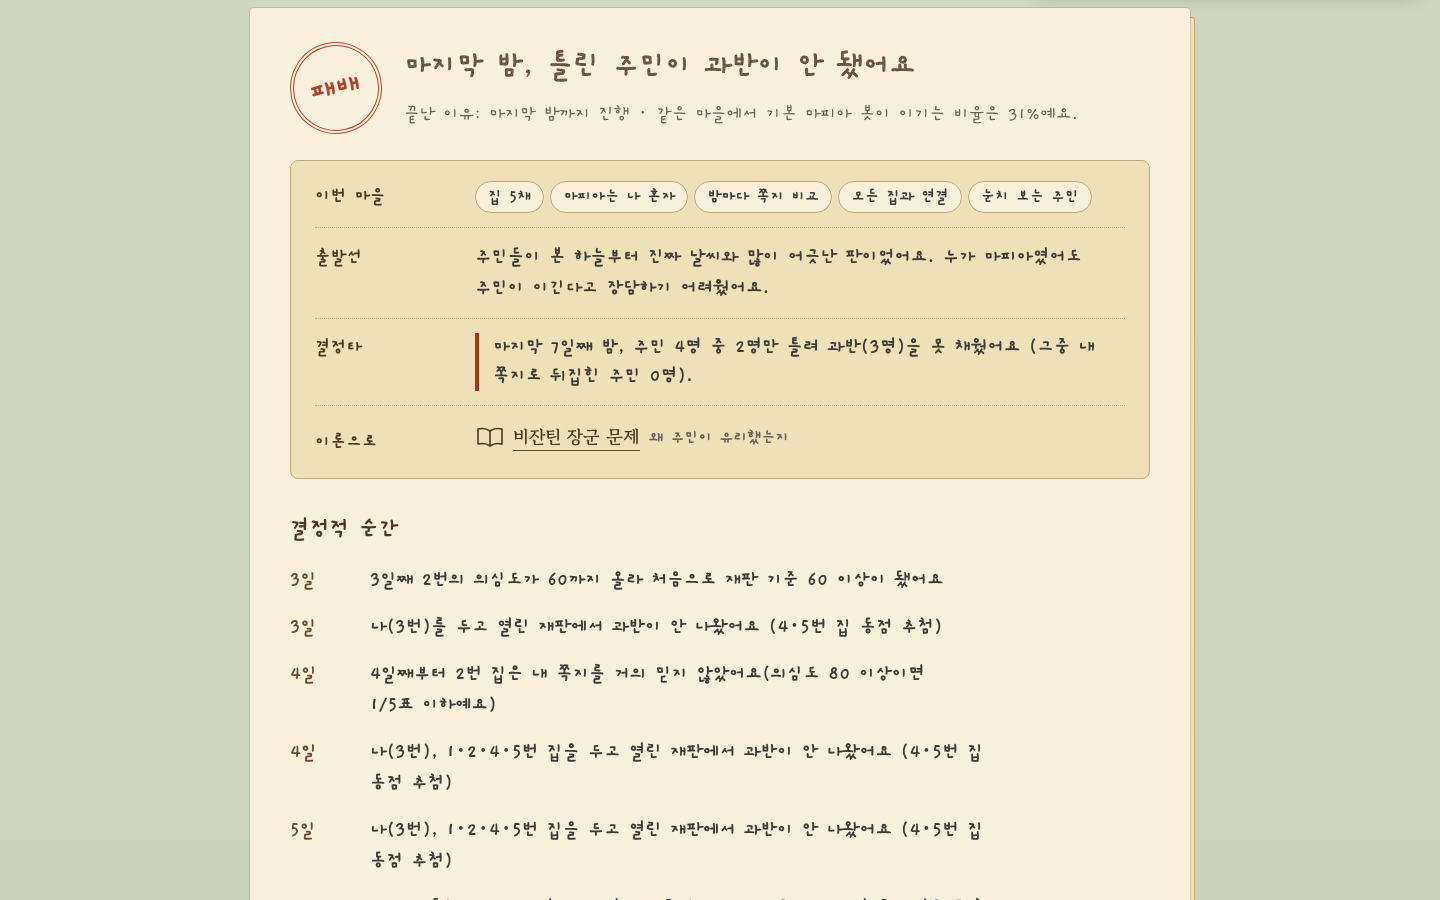
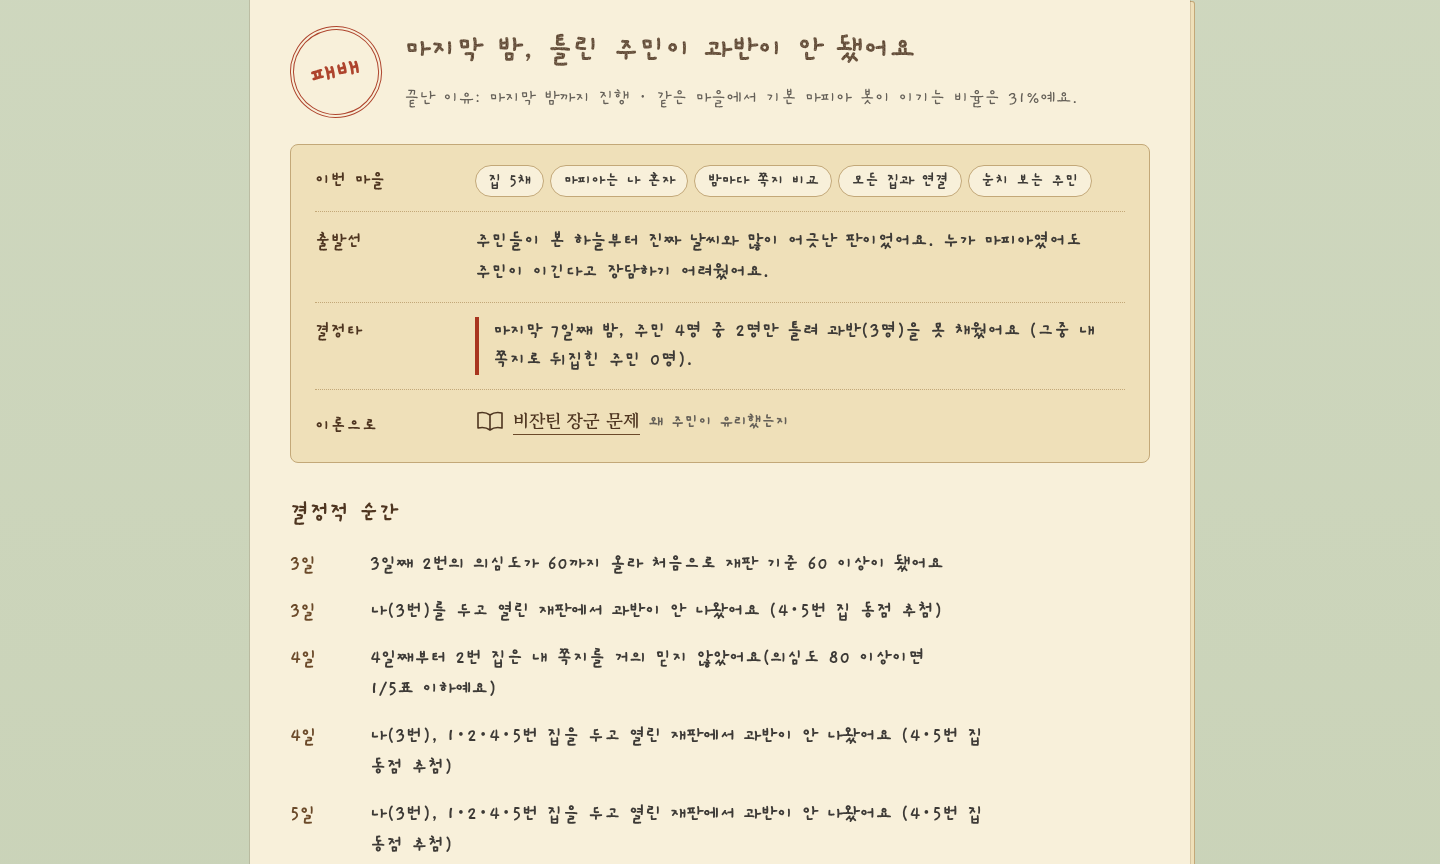
docs: 문서 리뷰 반영

diff --git a/README.md b/README.md
@@ -1,15 +1,13 @@
 # 비잔틴 도시 시뮬레이션
 
-도시 5곳(컨테이너 5개)이 각자 "대피/잔류"를 정할 때, 틀린 정보와 거짓말이 섞이면 판단이 어떻게 무너지는지 실험하는 시뮬레이터입니다.
+도시 5곳(컨테이너 5개)이 각자 "대피/잔류"를 정하고 결론을 이웃과 나눌 때, 틀린 정보와 거짓말이 섞이면 판단이 어떻게 무너지는지 실험하는 시뮬레이터입니다.
 직접 거짓말쟁이가 되어 보는 게임도 있습니다.
 
 | 할 수 있는 것 | 내용 |
 |---|---|
 | 실험 모드 | `실험 설정`에서 조건을 정해 실행하고, `결과 탐색`에서 턴별 결과를 보고, `실험 비교`에서 비교합니다 |
-| AI 주민을 속여라 | 마피아가 되어 7일 동안 쪽지를 보냅니다. 재판에서 지목되지 않고 마지막 밤에 주민 과반이 날씨와 반대로 움직이면 이깁니다. 결과 화면은 판을 이론으로 해석하고 이론 책으로 연결합니다 |
+| AI 주민을 속여라 | 주민(`다수결`·`눈치`·`AI`)을 고르고 마피아가 되어 7일 동안 쪽지를 보냅니다. 재판에서 지목되지 않고 마지막 밤에 주민 과반이 날씨와 반대로 움직이면 이깁니다. 결과 화면은 판을 이론으로 해석하고 이론 책으로 연결합니다 |
 | 이론 실험실 | 게임 시작 화면에서 들어갑니다. 시나리오 넷(감시의 눈, 고리 마을, 신뢰를 되찾는 법, 고집쟁이 동료)으로 이론을 직접 확인합니다 |
-
-게임의 주민은 `다수결`, `눈치`, `AI` 중에서 고릅니다.
 
 > 경기대학교 2026-2 오픈소스 · 5팀 (사공우혁, 장민서, 장성진, 최서연, 우재원)
 
@@ -21,7 +19,7 @@
 
 ![게임 마을 보드](docs/images/game-board.png)
 
-마을 보드에서 집마다 보낼 쪽지(대피/잔류)를 고르고, 의심도가 어떻게 바뀔지 미리 봅니다.
+마을 보드에서 집마다 보낼 쪽지(대피/잔류)를 고릅니다. 주민이 `눈치`면 의심도가 어떻게 바뀔지도 미리 봅니다.
 
 ![게임 결과 화면](docs/images/game-result.png)
 
@@ -82,7 +80,8 @@ docker compose ps    # api·mysql이 healthy인지 확인
 
 `.env` 없이도 기본값으로 실행됩니다. DB 계정, `GOD_MODE`, LLM 설정을 바꿀 때만 `.env.example`을 `.env`로 복사해 수정합니다.
 AI 주민에 실제 LLM을 쓰려면 `.env`에 `LLM_API_KEY`, `LLM_BASE_URL`, `LLM_MODEL`을 넣습니다. `LLM_API_KEY`가 비면 가짜 LLM을 씁니다.
-무료 한도 키는 팀원 테스트용이며, 키는 커밋하지 않습니다.
+`LLM_MODEL`은 꼭 지정합니다. `LLM_BASE_URL`이 비면 OpenAI 주소를 씁니다.
+팀이 쓰는 키는 무료 한도라 팀원 테스트용입니다. 키는 커밋하지 않습니다.
 폴더별 개발 실행 방법은 [frontend](frontend/README.md), [backend](backend/README.md), [engine/god](engine/god/README.md) README에 있습니다.
 
 ## 배포

diff --git a/docs/spec.md b/docs/spec.md
@@ -443,7 +443,7 @@ God이 게임 상태를 메모리에 둔다. 진행 중 게임은 한 번에 하
 | GET | `/games/stats` | 플레이 기록 집계 (아래) |
 | GET | `/games/stats.csv` | 같은 집계를 CSV 파일로 (`play_stats.csv`, UTF-8 BOM) |
 
-- 요청·응답 형식은 7.7, 7.8과 같다. 백엔드는 턴 결과를 받은 그대로 저장한다 (예: `games`, `game_turns` JSON 컬럼). 테이블은 5절에 있다.
+- 요청·응답 형식은 7.7, 7.8과 같다. 백엔드는 턴 결과를 받은 그대로 `game_turns`에 저장한다 (5절).
 - `bot_win_rate`: 같은 설정에서 `player == "bot"`의 마피아 승률 (0.0~1.0, 결과 화면 비교용). 값은 7.2 난이도 표의 측정값을 백엔드가 설정별로 들고 있다. 프리셋 밖 설정(`mafia_count` 2, 표에 없는 `sensor_error`, 기본값이 아닌 `connection`·`memory`·`share_mode`·`share_pairs`, `citizen_type` `"ai"`)이면 `null`. God은 이 필드를 모른다.
 - 새 게임을 시작하면 이전 `in_progress` 게임은 `abandoned`.
 - 플레이 기록 집계(`/games/stats`): `status == "finished"`, `player == "human"`, `citizen_type`이 `"wary"` 또는 `"majority"`(`"ai"`는 봇 승률이 없어 제외), `mafia_count` 1, `connection`·`memory`·`share_mode`·`share_pairs`가 기본값, `sensor_error`가 7.2 난이도 프리셋 값(0.48/0.4/0.3)인 판만 센다. `seed`는 따지지 않는다. 승리는 `outcome`이 `"win"` 또는 `"perfect_win"`인 판.
@@ -485,7 +485,7 @@ God이 게임 상태를 메모리에 둔다. 진행 중 게임은 한 번에 하
 ### 7.11 LLM 호출 위치와 키
 
 - **City가 호출한다.** 근거: 판단 주체가 City라는 구조를 지키고 God에는 규칙(공유·모순·투표)만 남긴다. compose는 기본 bridge 네트워크 하나만 쓰고 분리하지 않는다. 그래서 City 컨테이너가 외부 LLM 주소를 바로 호출할 수 있다.
-- God의 AI 시민 City 호출 시간 제한은 40초(City의 LLM 30초보다 길게, `god/main.py` 상수). 시민 5곳은 병렬로 부른다. 규칙 시민은 기본 1초.
+- God의 AI 시민 City 호출 시간 제한은 40초(City의 LLM 30초보다 길게, `god/main.py` 상수). 시민 City는 병렬로 부른다. 규칙 시민은 기본 1초.
 - 게임 전용 키를 쓴다 (PR 리뷰 키와 분리). OpenAI 호환 chat completions로 호출하고, 환경변수 `LLM_API_KEY`, `LLM_BASE_URL`, `LLM_MODEL`은 City 컨테이너에만 준다. 키가 없으면 테스트용 가짜 LLM을 쓴다 (5단계).
 - 결정, 의심도, 판단 이유는 한 번의 호출로 받는다. 같은 seed 재현은 AI 시민에 보장하지 않는다.
 - `LLM_BASE_URL`은 chat completions **전체 주소** 또는 `/v1` 기본 주소다 (예: `https://api.groq.com/openai/v1`). `/v1`로 끝나면 `/chat/completions`를 붙인다. 기존 전체 주소와 게이트웨이의 끝 슬래시는 유지하며, 비면 OpenAI 기본 주소다.

diff --git a/engine/god/README.md b/engine/god/README.md
@@ -170,7 +170,7 @@ God의 동작 여부와 각 City의 `/health` 응답을 확인합니다.
 | `sensor_error` | 0~1 숫자 | `0.1` |
 | `drop_rate` | 0~1 숫자 | `0.0` |
 | `flip_rate` | 0~1 숫자 | `0.0` |
-| `byzantine_count` | 0~5 정수 | `1` |
+| `byzantine_count` | 0~`n_cities` 정수 | `1` |
 | `seed` | `null` 또는 0~2147483647 정수 | `null` |
 | `n_cities` | 3~`N_CITIES` 정수 | `5` |
 | `connection` | `"ring"` 또는 `"all"` | `"ring"` |
@@ -210,17 +210,6 @@ Content-Type: application/json
 ```json
 {"error": "invalid turns: expected integer in 1..20"}
 ```
-
-### 게임 엔드포인트
-
-| 메서드 | 경로 | 설명 |
-|---|---|---|
-| POST | `/games` | 게임 시작. 진행 중 게임은 하나이며 새 게임이 이전 게임을 대체 |
-| POST | `/games/{game_id}/turns` | 한 턴 진행. 턴 결과를 응답 본문으로 반환 |
-| GET | `/games/{game_id}` | 게임 상태 |
-
-게임 상태는 메모리에만 있습니다. 시민 City는 병렬로 호출합니다.
-`CITY_RUNTIME=kubernetes`이면 게임마다 City를 만들고 `/run`은 HTTP 503입니다 ([동적 실행](../../deploy/kubernetes/dynamic/README.md)).
 
 ### God이 사용하는 City 호출
 
@@ -283,6 +272,17 @@ God은 백엔드에서 다음 응답을 받아 실험 ID와 턴 번호가 요청
 - 서버는 요청을 하나씩 처리하므로 `/run` 실행 중 `/health`와 다른 실행 요청이 대기할 수 있습니다.
 - City·백엔드 호출 제한은 각각 1초입니다. 게임의 AI 시민 호출만 40초입니다. 최대 설정에서는 초기화 5회와 City 턴 호출 100회, 백엔드 전송 20회가 발생합니다.
   `/run` 호출자는 이 요청들을 마칠 수 있는 전체 대기 시간을 설정해야 합니다.
+
+## 게임 엔드포인트
+
+| 메서드 | 경로 | 설명 |
+|---|---|---|
+| POST | `/games` | 게임 시작. 진행 중 게임은 하나이며 새 게임이 이전 게임을 대체 |
+| POST | `/games/{game_id}/turns` | 한 턴 진행. 턴 결과를 응답 본문으로 반환 |
+| GET | `/games/{game_id}` | 게임 상태 |
+
+게임 상태는 메모리에만 있습니다. 시민 City는 병렬로 호출합니다.
+`CITY_RUNTIME=kubernetes`이면 게임마다 City를 만들고 `/run`은 HTTP 503입니다 ([동적 실행](../../deploy/kubernetes/dynamic/README.md)).
 
 ## 게임의 최대 턴 수
 

diff --git a/deploy/kubernetes/dynamic/README.md b/deploy/kubernetes/dynamic/README.md
@@ -2,7 +2,7 @@
 
 God 한 개가 게임 시작 시 City Pod 5개와 Service 5개를 만들고, 모두 Ready 및 health 확인이 끝난 뒤 게임 상태를 반환합니다.
 현재 활성 게임은 한 개입니다. 새 게임은 이전 게임의 자원을 먼저 정리하며 게임 종료 또는 City 호출 실패 시에도 정리합니다.
-기존 Compose의 고정 City 주소와 게임 판단·난수 순서는 유지합니다. PR 1의 고정 배포와 별도 namespace를 사용합니다.
+기존 Compose의 고정 City 주소와 게임 판단·난수 순서는 유지합니다. [고정 배포](../README.md)와 별도 namespace를 사용합니다.
 
 ## 구성과 제한
 
@@ -77,4 +77,4 @@ kubectl --context $kubeContext -n byzantine-engine-dynamic get all,configmap,sec
 kubectl --context $kubeContext delete -f deploy/kubernetes/dynamic/engine.yaml --ignore-not-found
 ```
 
-클러스터·Docker 볼륨·PR 1의 고정 namespace는 삭제하지 않습니다.
+클러스터·Docker 볼륨·[고정 배포](../README.md)의 namespace는 삭제하지 않습니다.

diff --git a/backend/README.md b/backend/README.md
@@ -38,8 +38,8 @@ backend/
 
 - 턴 진행은 God의 응답을 DB에 저장하고 그대로 돌려줍니다. `/internal/...` 콜백은 쓰지 않습니다.
 - 실험이 실행 중이면 게임 시작은 `409`입니다. 새 게임을 시작하면 진행 중이던 게임은 `abandoned`가 됩니다.
-- 턴 진행 중 God 호출이 실패하면 게임은 `failed`가 되고 `502`를 돌려줍니다. God의 `409`·`422`는 그대로 돌려주고 게임은 유지합니다.
-- 집계 대상과 요청·응답 형식은 [`docs/spec.md`](../docs/spec.md) 7절에 있습니다.
+- `max_turns`는 아직 전달하지 않아 7턴입니다.
+- 오류 처리, 집계 대상, 요청·응답 형식은 [`docs/spec.md`](../docs/spec.md) 7절에 있습니다.
 
 ## 1. Docker로 실행 (권장)
 

diff --git a/deploy/kubernetes/README.md b/deploy/kubernetes/README.md
@@ -132,4 +132,3 @@ kubectl --context $kubeContext delete -f deploy/kubernetes/namespace.yaml --igno
 ```
 
 다른 namespace, 기존 클러스터, Docker 이미지·컨테이너는 삭제하지 않습니다.
-이 구성의 고정 자원은 위 명령으로 직접 정리합니다.
